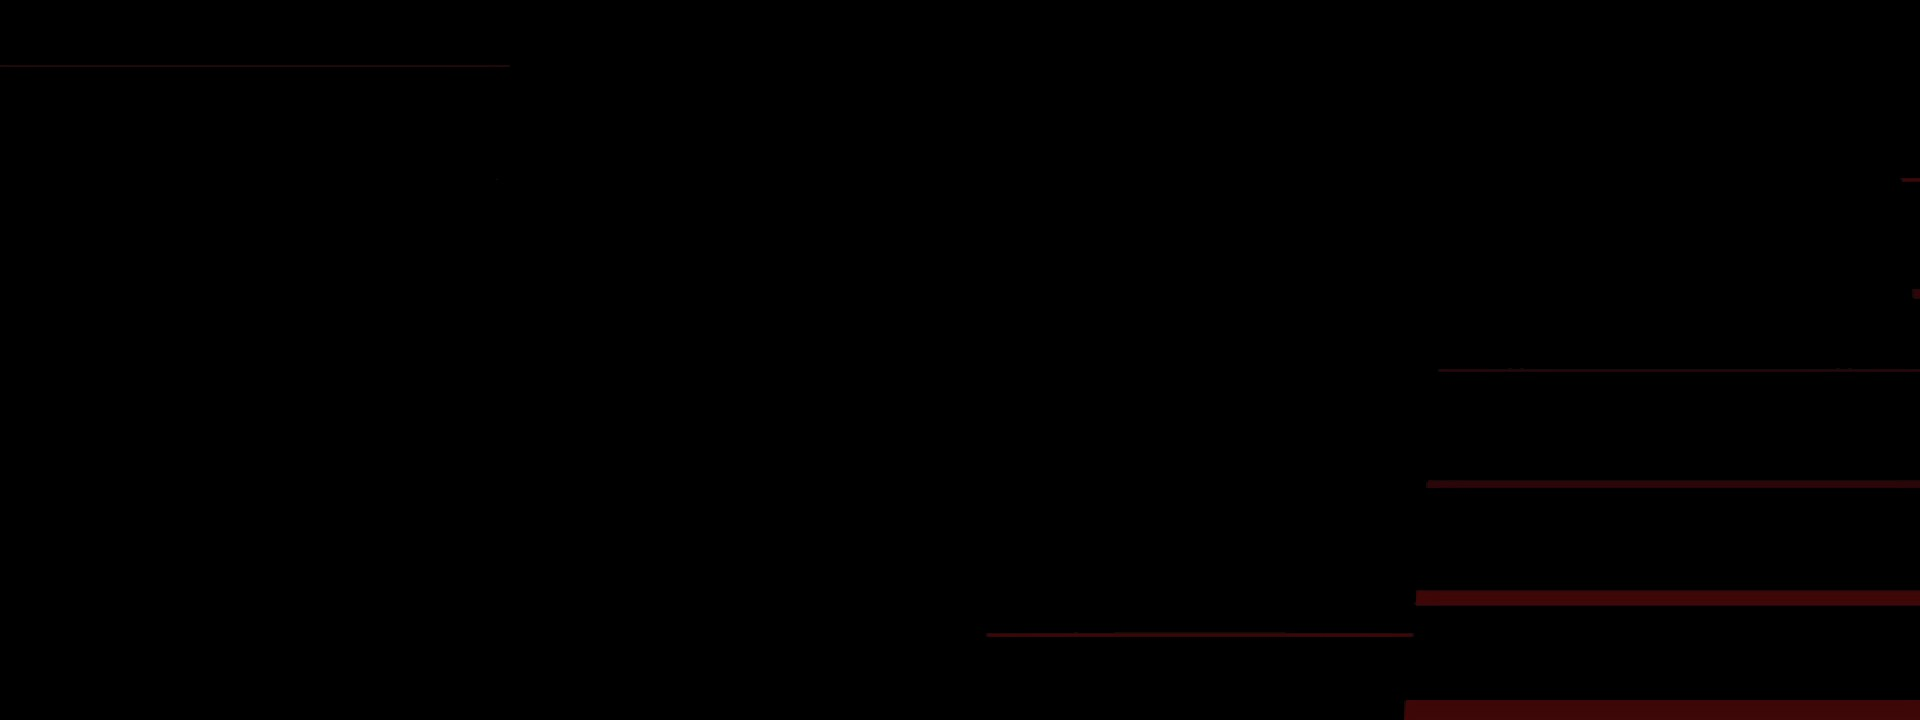
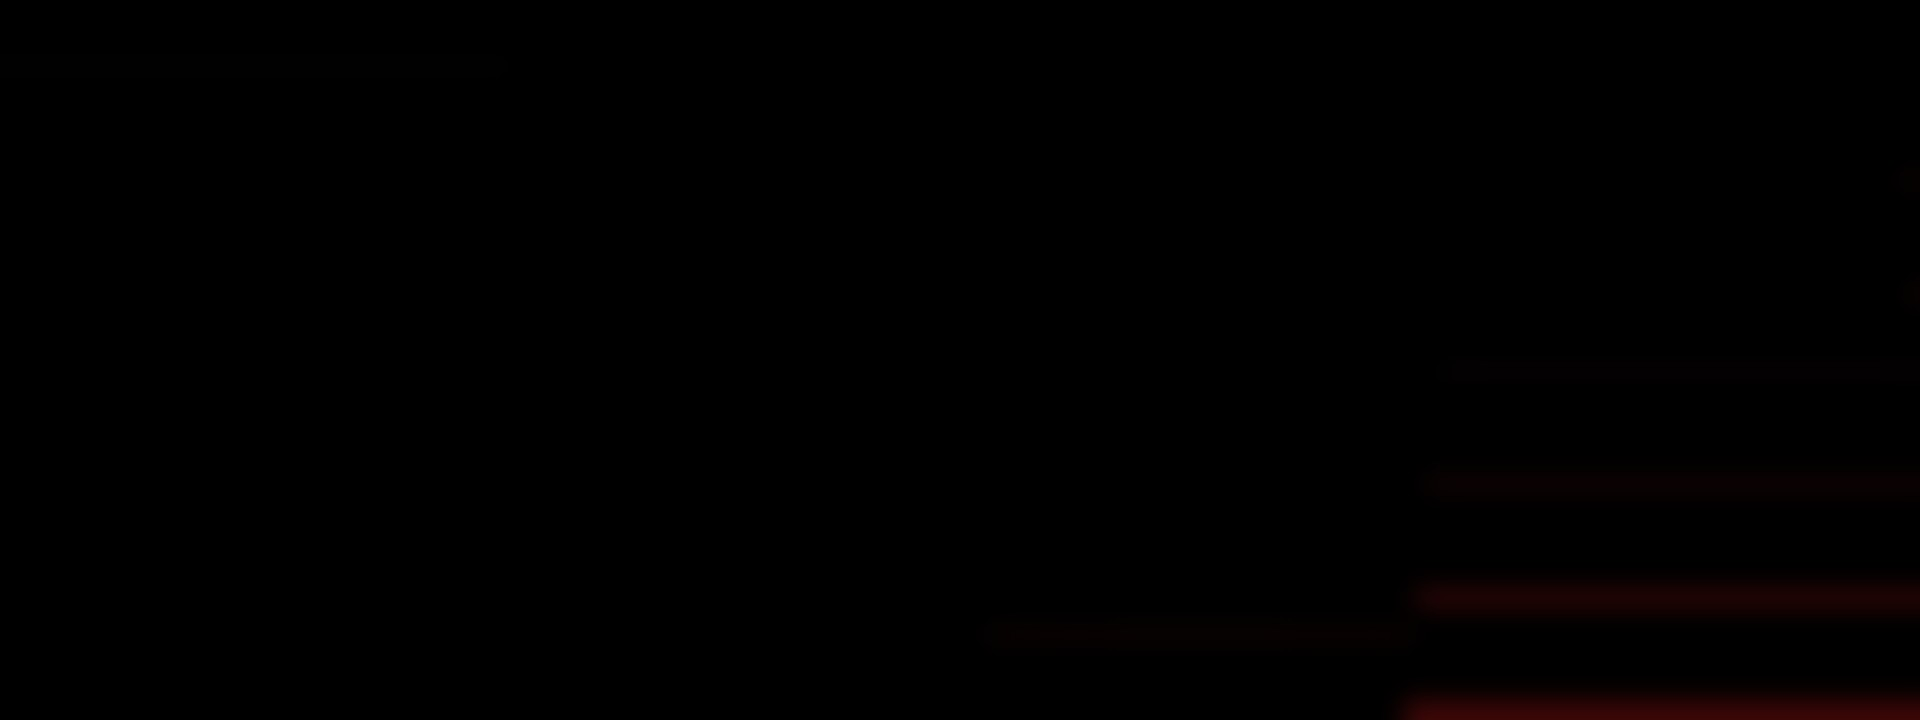
1.156: Softly blurred animated background (baked into the frames); story video follows frame durations
Claude-Session: https://claude.ai/code/session_01VMaw1RNinh1j9DMArVUfZ8

diff --git a/www/index.html b/www/index.html
@@ -634,6 +634,9 @@ async function storyVideo(g,L,prog){
  await jsLoad('vendor/mp4-muxer.js');const M=window.Mp4Muxer;if(!M)return null;
  const dec=new ImageDecoder({data:await (await fetch(dark?'bg/pattern-dark.webp':'bg/pattern-light.webp')).arrayBuffer(),type:'image/webp'});
  await dec.tracks.ready;const fc=Math.max(1,dec.tracks.selectedTrack.frameCount||1);
+ /* משך כל פריים ברקע (פריימים זהים מאוחדים, כך שהמשכים שונים) – כדי שהרקע ינוע בסרטון בקצב האמיתי שלו */
+ const du=[];for(let k=0;k<fc;k++){const {image:f}=await dec.decode({frameIndex:k});du.push(f.duration||40000);f.close()}
+ const cum=[];du.reduce((t,d,k)=>(cum[k]=t+d),0);const TT=cum[fc-1]||1,at=t=>{t%=TT;let k=0;while(k<fc-1&&cum[k]<=t)k++;return k};
  const mux=new M.Muxer({target:new M.ArrayBufferTarget(),video:{codec:'avc',width:W,height:Hh,frameRate:fps},fastStart:'in-memory'});
  let err=null;const enc=new VideoEncoder({output:(c,m)=>mux.addVideoChunk(c,m),error:e=>{err=e}});enc.configure(cfg);
  const cv=document.createElement('canvas');cv.width=W;cv.height=Hh;const x=cv.getContext('2d');
@@ -641,7 +644,7 @@ async function storyVideo(g,L,prog){
  try{for(let i=0;i<N;i++){if(err)throw err;
    const s=Math.floor(i/fps);if(!card||(!live&&s!==sec)){sec=s;card=await storyCanvas(g,L,{bg:false,now:t0+s*1000})}
    x.fillStyle=dark?'#000':'#fff';x.fillRect(0,0,W,Hh);
-   const {image:fr}=await dec.decode({frameIndex:i%fc});const iw=fr.displayWidth,ih=fr.displayHeight,k=Math.max(W/iw,Hh/ih);
+   const {image:fr}=await dec.decode({frameIndex:at(i*us)});const iw=fr.displayWidth,ih=fr.displayHeight,k=Math.max(W/iw,Hh/ih);
    x.drawImage(fr,(W-iw*k)/2,(Hh-ih*k)/2,iw*k,ih*k);fr.close();x.drawImage(card,0,0);
    const vf=new VideoFrame(cv,{timestamp:Math.round(i*us),duration:Math.round(us)});enc.encode(vf,{keyFrame:i%(fps*2)===0});vf.close();
    while(enc.encodeQueueSize>6)await new Promise(r=>setTimeout(r,4));

diff --git a/www/sw.js b/www/sw.js
@@ -1,7 +1,7 @@
 // Service worker: works offline after the first visit.
 // data.json is network-first (fresh results when online, last copy when offline);
 // everything else is cache-first with a background refresh.
-const CACHE = 'hpj-v1.155';
+const CACHE = 'hpj-v1.156';
 const CORE = [
   './', './index.html', './manifest.webmanifest', './data.json', './crests.json', './photos.json',
   './icons/icon-192.png', './icons/icon-512.png', './icons/notify-badge.png',

diff --git a/www/version.js b/www/version.js
@@ -1,1 +1,1 @@
-window.APP_VERSION='1.155';
+window.APP_VERSION='1.156';

diff --git a/CHANGELOG.md b/CHANGELOG.md
@@ -3,6 +3,11 @@
 כל גרסה של האפליקציה מקבלת כאן פסקה משלה, והפסקה הזו מופיעה גם בעמוד הגרסה ב-GitHub Releases.
 הגרסה החדשה ביותר למעלה.
 
+## 1.156
+גרסה ניסיונית (Pre-release). כוללת את מה שב-1.141–1.155.
+- הרקע המונפש מטושטש קצת, כמו הרקע הקודם (עד 1.140) – באפליקציה ובסטורי, בבהיר ובכהה. הטשטוש שמור בקובץ עצמו, כך שהוא לא מכביד על הטלפון, והקבצים קטנים בהרבה (כ-85KB בכהה וכ-250KB בבהיר במקום כמגה כל אחד).
+- בסרטון הסטורי הרקע זז בקצב האמיתי של האנימציה, והסרטון קטן יותר.
+
 ## 1.155
 גרסה ניסיונית (Pre-release). כוללת את מה שב-1.141–1.154.
 - הרקע המונפש ממורכז עכשיו – באפליקציה, בסרטון הסטורי ובתמונת הסטורי (כשהמכשיר לא תומך בסרטון). במצב בהיר – אותה אנימציה ממורכזת, כשהשחור הופך ללבן.
